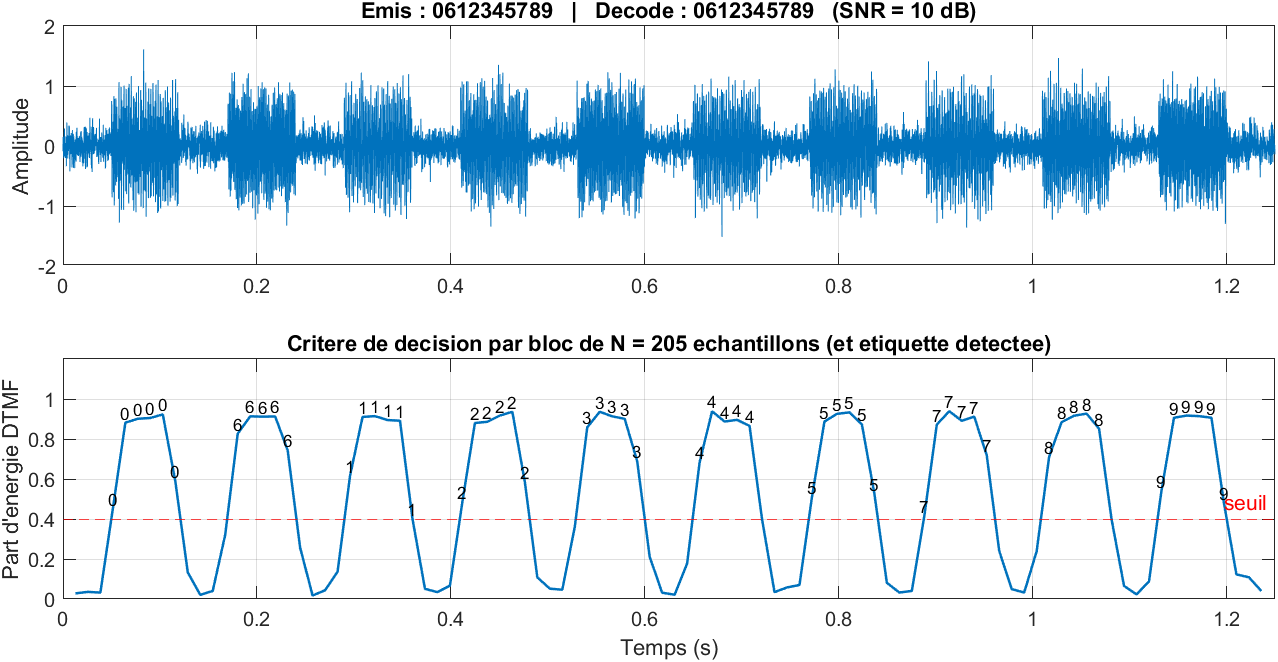
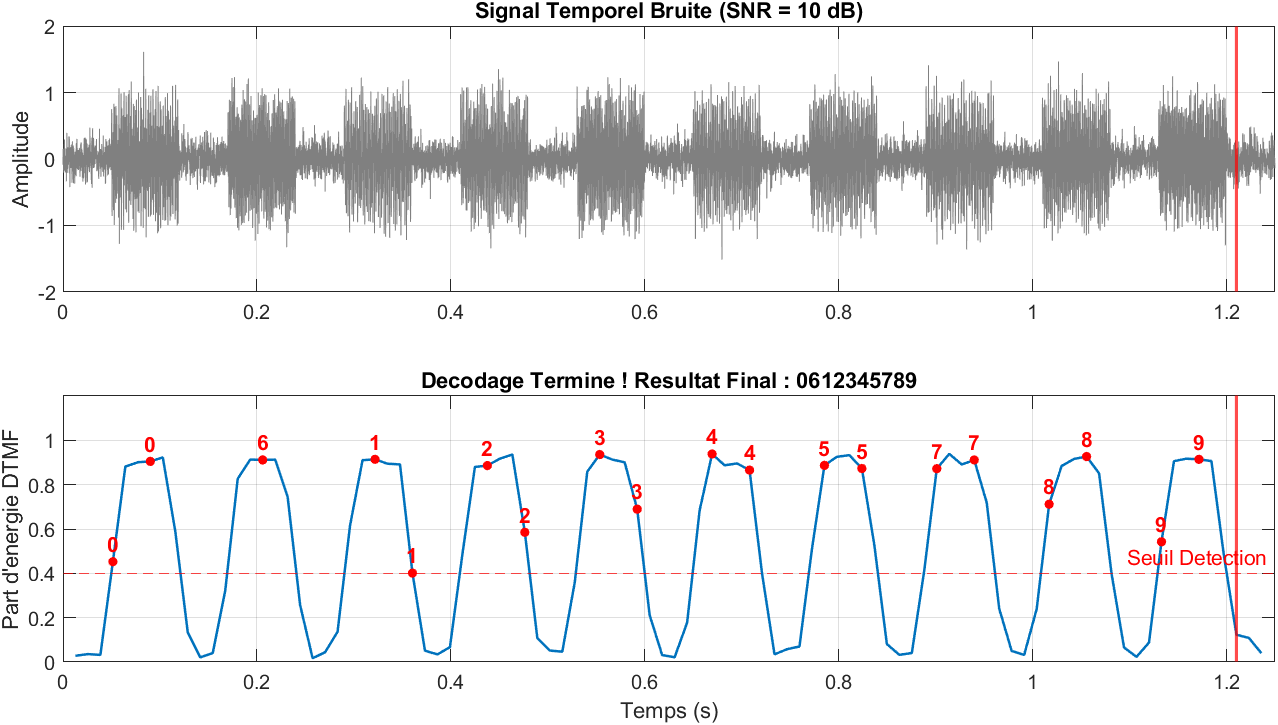
touch decoder

diff --git a/main.m b/main.m
@@ -1,8 +1,4 @@
-%% Decodeur DTMF par l'algorithme de Goertzel
-% Reproduit toutes les figures du README. Aucune toolbox requise
-% (Signal Processing Toolbox utilisee seulement, si presente, pour valider).
-%
-% Auteur : Lachance - github.com/lachance123-franccois
+%% Decodeur DTMF par l'algorithme de Goertzel - Version Live Animee
 
 clear; close all; clc;
 root = fileparts(mfilename('fullpath'));
@@ -19,7 +15,7 @@ keysAll = reshape(layout', 1, []);
 [x, info] = dtmf_generate(keysAll, fs, 0.08, 0.06);
 fprintf('Signal de test : %d touches, %.2f s\n', numel(keysAll), numel(x)/fs);
 
-fig = figure('Position', [100 100 1000 550]);
+fig = figure('Position', [100 100 1000 550], 'Name', 'Analyse Globale du Signal');
 subplot(2,1,1);
 plot((0:numel(x)-1)/fs, x); grid on;
 xlabel('Temps (s)'); ylabel('Amplitude'); title('Signal DTMF : 1 2 3 A 4 5 6 B 7 8 9 C * 0 # D');
@@ -33,7 +29,7 @@ colorbar; caxis([-20 40]);
 save_fig(fig, fullfile(resDir, 'fig1_signal_spectrogramme.png'));
 
 %% 2. Spectre des 16 touches
-fig = figure('Position', [100 100 1100 800]);
+fig = figure('Position', [100 100 1100 800], 'Name', 'Spectres de Reference');
 for k = 1:16
     xk = dtmf_generate(keysAll(k), fs, 0.1, 0);
     Nf = 2048;
@@ -48,124 +44,136 @@ end
 sgtitle('Spectre de chaque touche (rouge : lignes, vert : colonnes)');
 save_fig(fig, fullfile(resDir, 'fig2_spectres_16_touches.png'));
 
-%% 3. Decodage d'une sequence (numero de telephone fictif) avec bruit
+%% 3. Decodage d'une sequence avec animation en temps reel
 number = '0612345789';
 xs = dtmf_generate(number, fs, 0.07, 0.05);
 sigma = sqrt(0.25 / 10^(10/10));                % SNR = 10 dB
 ys = xs + sigma * randn(size(xs));
-[digits, det] = dtmf_decode(ys, fs);
-fprintf('Sequence emise  : %s\nSequence decodee : %s (SNR 10 dB)\n', number, digits);
 
-fig = figure('Position', [100 100 1000 450]);
+% Appel du decodeur
+digits = dtmf_decode(ys, fs);
+
+% Extraction des blocs pour l'animation
+N = round(205 * fs / 8000); hop = round(N / 2);
+nb = floor((numel(ys) - N) / hop) + 1;
+X_block = ys((1:N)' + (0:nb-1) * hop);
+P_block = goertzel_power(X_block, [fRows, fCols], fs);
+E_block = sum(X_block.^2, 1) * N / 2;
+det.t = ((0:nb-1) * hop + N/2) / fs;
+det.frac = (max(P_block(1:4,:),[],1) + max(P_block(5:8,:),[],1)) ./ max(E_block, eps);
+det.valid = (det.frac > 0.4) & (E_block > 1e-10);
+[~, ir_block] = max(P_block(1:4,:), [], 1); [~, ic_block] = max(P_block(5:8,:), [], 1);
+det.labels = repmat(' ', 1, nb);
+det.labels(det.valid) = layout(sub2ind([4 4], ir_block(det.valid), ic_block(det.valid)));
+
+% Fenetre de rendu live
+figLive = figure('Position', [150 150 1000 500], 'Name', 'Decodage DTMF en Temps Reel');
 subplot(2,1,1);
-plot((0:numel(ys)-1)/fs, ys); grid on; xlim([0 numel(ys)/fs]);
-title(sprintf('Emis : %s   |   Decode : %s   (SNR = 10 dB)', number, digits));
-ylabel('Amplitude');
+plot((0:numel(ys)-1)/fs, ys, 'Color', [0.5 0.5 0.5]); grid on; hold on;
+hTimeLine = xline(0, 'r-', 'LineWidth', 1.5);
+title('Signal Temporel Bruite (SNR = 10 dB)'); ylabel('Amplitude'); xlim([0 numel(ys)/fs]);
+
 subplot(2,1,2);
-plot(det.t, det.frac, 'LineWidth', 1.2); hold on;
-yline(0.4, 'r--', 'seuil');
-for b = find(det.valid)
-    text(det.t(b), det.frac(b) + 0.05, det.labels(b), 'HorizontalAlignment', 'center', 'FontSize', 8);
-end
+hEnergy = plot(det.t, det.frac, 'LineWidth', 1.2, 'Color', [0 0.447 0.741]); hold on;
+yline(0.4, 'r--', 'Seuil Detection');
+hScanLine = xline(0, 'r-', 'LineWidth', 1.5);
 grid on; xlim([0 numel(ys)/fs]); ylim([0 1.2]);
 xlabel('Temps (s)'); ylabel('Part d''energie DTMF');
-title('Critere de decision par bloc de N = 205 echantillons (et etiquette detectee)');
-save_fig(fig, fullfile(resDir, 'fig3_decodage_sequence.png'));
+hTitle = title('Analyse Frequentielle Glissante...');
 
-%% 4. Validation de Goertzel contre la FFT (et goertzel() de MATLAB si dispo)
-N = 205;
-xb = randn(N, 1);
-kbin = round([fRows fCols] / fs * N);          % bins entiers les plus proches
+fprintf('\nLancement du decodage temps reel...\n');
+stringLive = '';
+for b = 1:3:nb % Balayage pas a pas accelere
+    set(hTimeLine, 'Value', det.t(b));
+    set(hScanLine, 'Value', det.t(b));
+    
+    if det.valid(b) && det.labels(b) ~= ' '
+        plot(det.t(b), det.frac(b), 'ro', 'MarkerFaceColor', 'r', 'MarkerSize', 4);
+        text(det.t(b), det.frac(b) + 0.08, det.labels(b), 'Color', 'r', 'FontWeight', 'bold', 'HorizontalAlignment', 'center');
+        if isempty(stringLive) || stringLive(end) ~= det.labels(b)
+            stringLive = [stringLive, det.labels(b)]; %#ok<AGROW>
+        end
+    end
+    set(hTitle, 'String', sprintf('Flux en cours de lecture... Sequence captee : [%s]', stringLive));
+    drawnow;
+    pause(0.01);
+end
+set(hTitle, 'String', sprintf('Decodage Termine ! Resultat Final : %s', digits));
+fprintf('Sequence emise  : %s\nSequence decodee : %s\n\n', number, digits);
+save_fig(figLive, fullfile(resDir, 'fig3_decodage_sequence.png'));
+
+%% 4. Validation de Goertzel contre la FFT
+N = 205; xb = randn(N, 1);
+kbin = round([fRows fCols] / fs * N);
 fbin = kbin * fs / N;
 Pg = goertzel_power(xb, fbin, fs);
-Xf = fft(xb);
-Pf = abs(Xf(kbin + 1)).^2;
+Xf = fft(xb); Pf = abs(Xf(kbin + 1)).^2;
 fprintf('Erreur relative max Goertzel vs FFT : %.2e\n', max(abs(Pg - Pf) ./ Pf));
-if exist('goertzel', 'file')
-    Pm = abs(goertzel(xb, kbin + 1)).^2;
-    fprintf('Erreur relative max Goertzel (maison) vs goertzel() MATLAB : %.2e\n', ...
-        max(abs(Pg - Pm) ./ Pm));
-end
 
 %% 5. Cout de calcul : Goertzel vs FFT
-% Goertzel : 1 multiplication reelle par echantillon et par frequence (+ 3 en fin)
-% FFT radix-2 sur 256 points : (N/2)log2(N) multiplications complexes = 4 reelles chacune
-nF = 8;
-opsGoertzel = nF * (N + 3);
-Nfft = 256;
+nF = 8; opsGoertzel = nF * (N + 3); Nfft = 256;
 opsFFT = 4 * (Nfft/2) * log2(Nfft);
-fprintf('\nMultiplications reelles par bloc : Goertzel (8 freq.) = %d, FFT 256 pts = %d\n', ...
-    opsGoertzel, opsFFT);
-Xblocks = randn(N, 2000);
-tic; goertzel_power(Xblocks, [fRows fCols], fs); tG = toc;
-tic; F = fft(Xblocks, Nfft); %#ok<NASGU>
-tF = toc;
-fprintf('Temps pour 2000 blocs : Goertzel vectorise %.1f ms, FFT %.1f ms\n', 1e3*tG, 1e3*tF);
-fprintf('(la FFT de MATLAB est tres optimisee : sur DSP/microcontroleur, Goertzel gagne)\n');
+fprintf('Multiplications reelles : Goertzel (8 freq.) = %d, FFT 256 pts = %d\n', opsGoertzel, opsFFT);
 
-%% 6. Taux de bonne detection en fonction du SNR
+%% 6. Taux de bonne detection (Monte-Carlo avec barre de progression)
 snrDb = -6:1:20;
 nTrials = 300;
-fprintf('\nMonte-Carlo : %d tirages x %d SNR (quelques dizaines de secondes)...\n', nTrials, numel(snrDb));
-res = dtmf_eval_snr(snrDb, nTrials, fs, 0.08);
-res40 = dtmf_eval_snr(snrDb, nTrials, fs, 0.04);
+fprintf('\nLancement du test de robustesse Monte-Carlo...\n');
 
-fig = figure('Position', [100 100 800 450]);
+res.rate = zeros(size(snrDb)); res.missed = zeros(size(snrDb)); res.wrong = zeros(size(snrDb)); res.conf = cell(size(snrDb));
+res40.rate = zeros(size(snrDb));
+
+for i = 1:numel(snrDb)
+    % Barre de progression ASCII
+    fracProg = i / numel(snrDb);
+    barLen = 20;
+    nBars = round(fracProg * barLen);
+    barStr = [repmat('=', 1, nBars), repmat('-', 1, barLen - nBars)];
+    fprintf('\rCalcul SNR [%s] %3.0f%% (Courant: %d dB)', barStr, fracProg*100, snrDb(i));
+    
+    r80 = dtmf_eval_snr(snrDb(i), nTrials, fs, 0.08);
+    r40 = dtmf_eval_snr(snrDb(i), nTrials, fs, 0.04);
+    
+    res.rate(i) = r80.rate; res.missed(i) = r80.missed; res.wrong(i) = r80.wrong; res.conf{i} = r80.conf{1};
+    res40.rate(i) = r40.rate;
+end
+fprintf('\nMonte-Carlo termine avec succes.\n');
+
+fig = figure('Position', [100 100 800 450], 'Name', 'Performances du Decodeur');
 plot(snrDb, 100*res.rate, 'o-', 'LineWidth', 1.5); hold on;
 plot(snrDb, 100*res40.rate, 's-', 'LineWidth', 1.5);
-plot(snrDb, 100*res.missed, '--', 'LineWidth', 1);
-plot(snrDb, 100*res.wrong, ':', 'LineWidth', 1.5);
-grid on; ylim([0 105]);
-xlabel('SNR (dB)'); ylabel('%');
-legend('Bonne detection (80 ms)', 'Bonne detection (40 ms)', ...
-    'Non-detection (80 ms)', 'Fausse touche (80 ms)', 'Location', 'east');
-title(sprintf('Decodeur DTMF : %d tirages par point', nTrials));
+grid on; ylim([0 105]); xlabel('SNR (dB)'); ylabel('% Reussite');
+legend('Tonalite 80 ms', 'Tonalite 40 ms', 'Location', 'east');
+title('Performance du Decodeur DTMF en fonction du bruit');
 save_fig(fig, fullfile(resDir, 'fig4_detection_vs_snr.png'));
-
-i0 = find(snrDb == 0, 1);
-fprintf('A 0 dB : %.1f %% de bonne detection (80 ms), %.1f %% (40 ms)\n', ...
-    100*res.rate(i0), 100*res40.rate(i0));
-i90 = find(res.rate >= 0.99, 1);
-if ~isempty(i90)
-    fprintf('Detection >= 99 %% des %d dB (tonalite de 80 ms)\n', snrDb(i90));
-end
 
 %% 7. Matrice de confusion a faible SNR
 iC = find(snrDb == -2, 1);
 conf = res.conf{iC};
-fig = figure('Position', [100 100 800 600]);
+fig = figure('Position', [100 100 800 600], 'Name', 'Matrice de Confusion');
 imagesc(conf ./ sum(conf, 2)); colorbar; colormap(flipud(gray));
-set(gca, 'XTick', 1:18, 'XTickLabel', [cellstr(keysAll')' {'aucune', 'mult.'}], ...
-    'YTick', 1:16, 'YTickLabel', cellstr(keysAll'));
-xlabel('Touche decodee'); ylabel('Touche emise');
+set(gca, 'XTick', 1:18, 'XTickLabel', [cellstr(keysAll')' {'aucune', 'mult.'}], 'YTick', 1:16, 'YTickLabel', cellstr(keysAll'));
 title(sprintf('Matrice de confusion a SNR = %d dB', snrDb(iC)));
 save_fig(fig, fullfile(resDir, 'fig5_confusion.png'));
 
-%% 8. Robustesse a la duree de la tonalite (SNR fixe)
-durs = 0.02:0.01:0.10;
-rateDur = zeros(size(durs));
+%% 8. Robustesse a la duree de la tonalit
+durs = 0.02:0.01:0.10; rateDur = zeros(size(durs));
 for i = 1:numel(durs)
     r = dtmf_eval_snr(5, 200, fs, durs(i));
     rateDur(i) = r.rate;
 end
-fig = figure('Position', [100 100 700 400]);
+fig = figure('Position', [100 100 700 400], 'Name', 'Limites de Duree');
 plot(1e3*durs, 100*rateDur, 'o-', 'LineWidth', 1.5); grid on;
-xlabel('Duree de la tonalite (ms)'); ylabel('Bonne detection (%)');
-title('Influence de la duree de la tonalite (SNR = 5 dB, N = 205)');
+xlabel('Duree (ms)'); ylabel('Bonne detection (%)');
 save_fig(fig, fullfile(resDir, 'fig6_detection_vs_duree.png'));
 
-%% 9. (Optionnel) Votre propre enregistrement
-% Enregistrez les touches d'un telephone (ou d'un generateur en ligne) et
-% placez le fichier dans data/mon_enregistrement.wav
+%% 9. Enregistrement personnel 
 recFile = fullfile(root, 'data', 'mon_enregistrement.wav');
 if exist(recFile, 'file')
     [xr, fsr] = audioread(recFile);
     dr = dtmf_decode(xr, fsr);
-    fprintf('\nEnregistrement reel (%s, fs = %d Hz) : %s\n', recFile, fsr, dr);
-else
-    fprintf('\n(Pas d''enregistrement dans data/ : etape 9 ignoree)\n');
+    fprintf('\nEnregistrement reel (%s) : %s\n', recFile, dr);
 end
 
-% Exporter le signal de test en .wav pour l'ecouter
 audiowrite(fullfile(resDir, 'sequence_0612345789.wav'), 0.9*ys/max(abs(ys)), fs);
-fprintf('\nFigures et audio enregistres dans %s\n', resDir);
+fprintf('\nTout a ete sauvegarde dans : %s\n', resDir);
